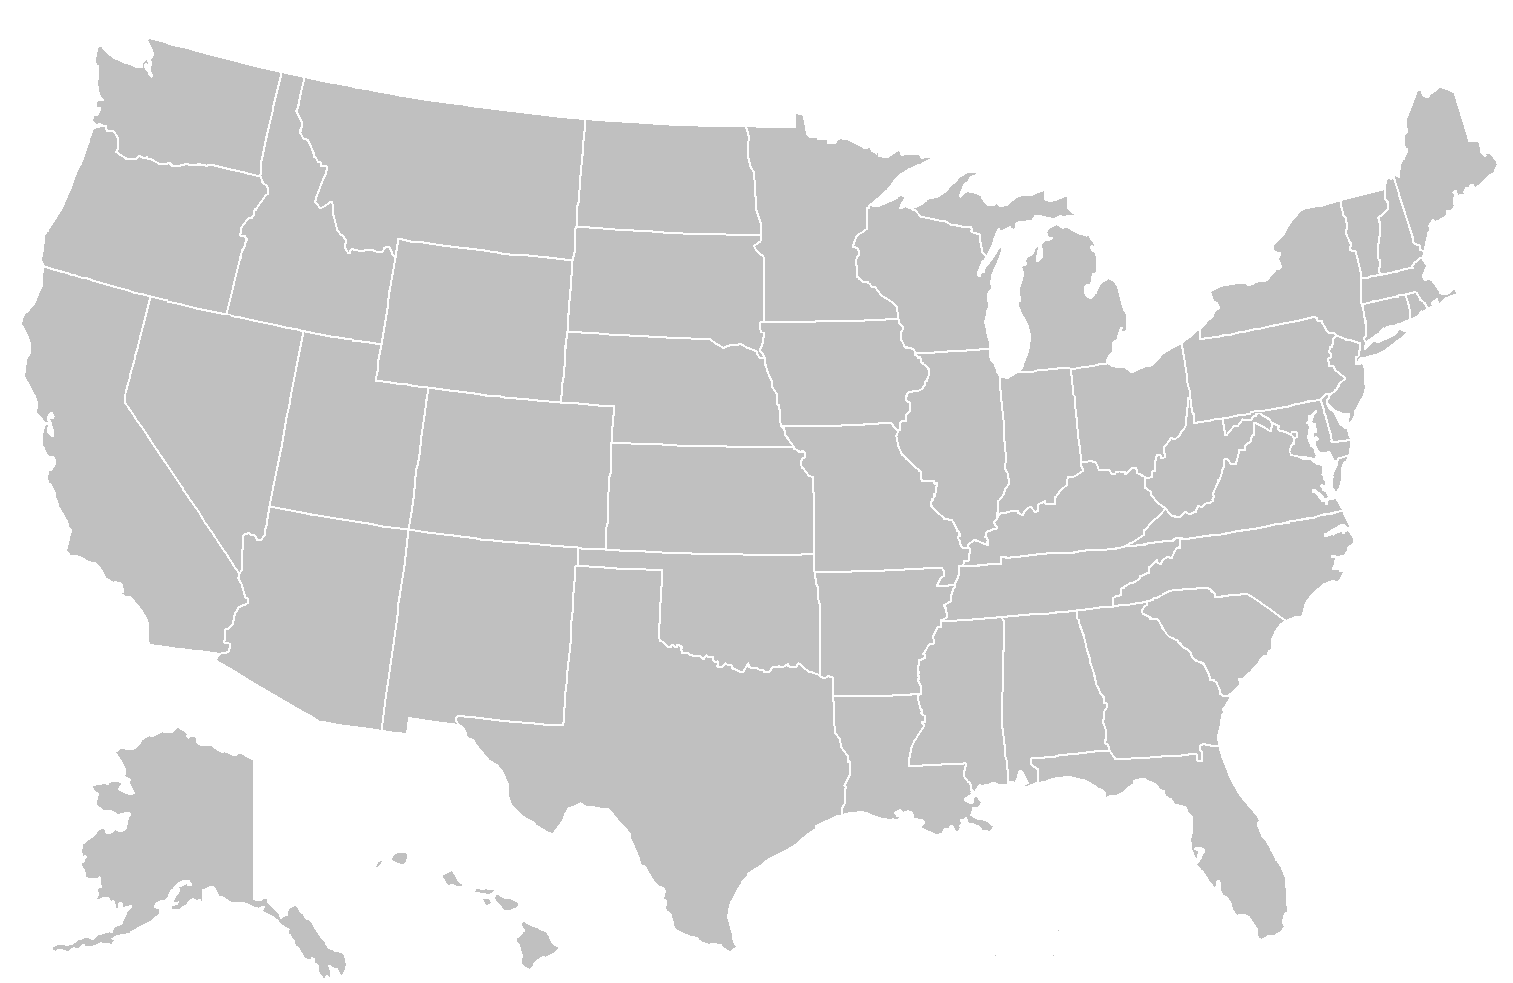
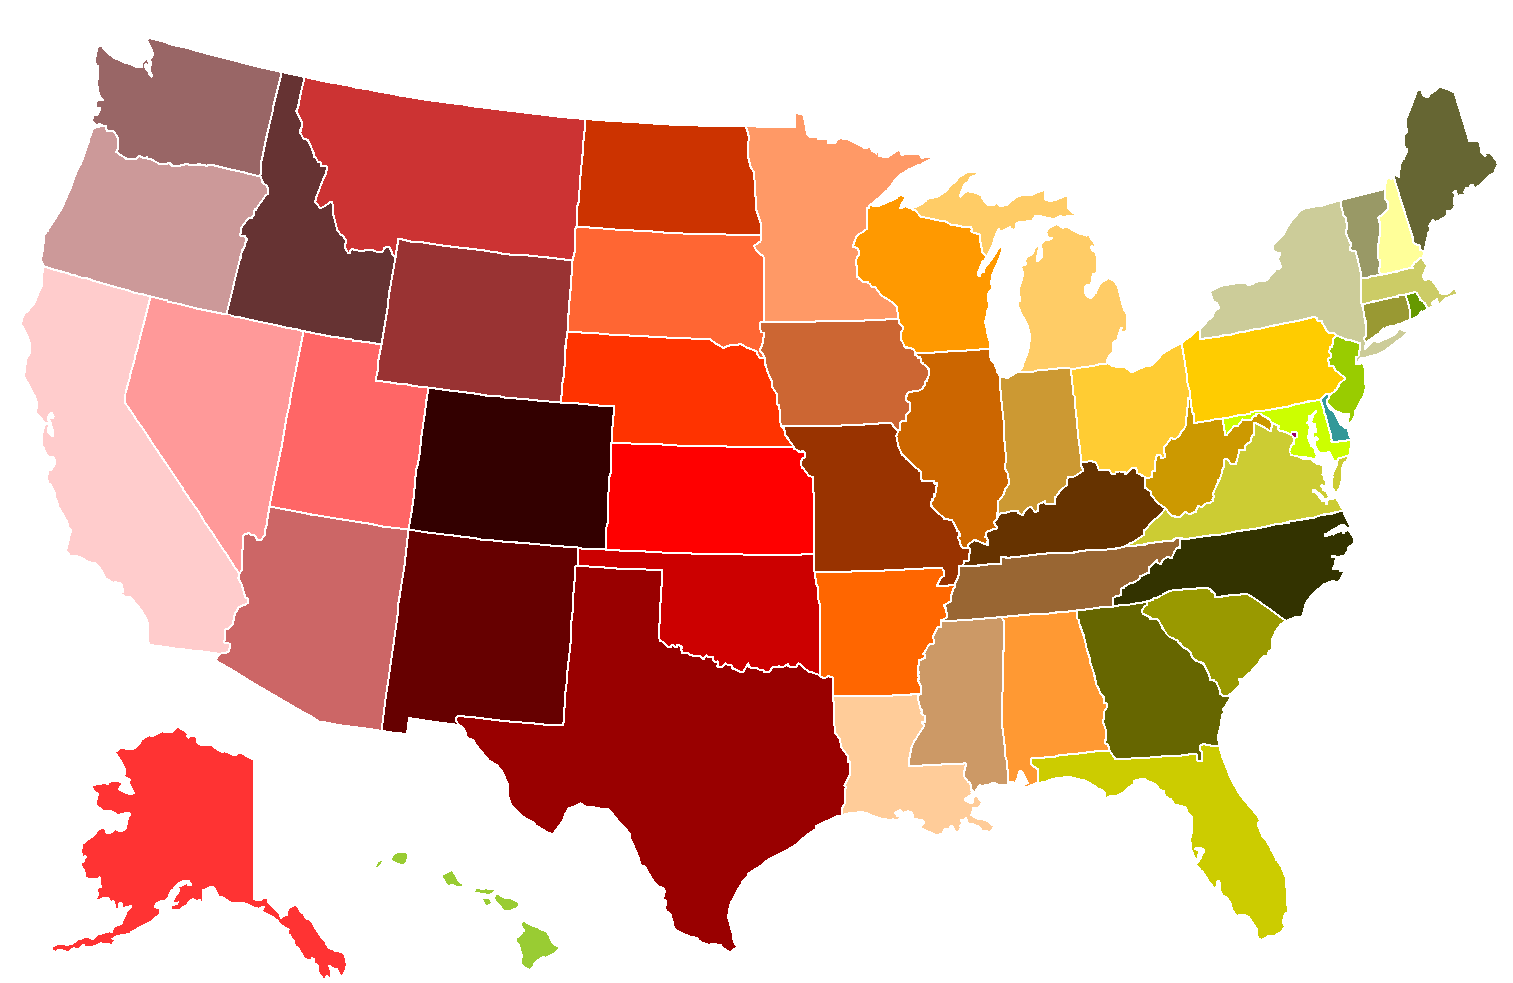
[maps] add USA state map (no label boxes yet)

diff --git a/dataviz/politics_civilwar.py b/dataviz/politics_civilwar.py
@@ -8,6 +8,9 @@ import dateparser
 
 CONFEDERATE = ["South Carolina", "Mississippi", "Florida", "Alabama", "Georgia", "Louisiana", "Texas"]
 UNION = ["California", "Connecticut", "Illinois", "Indiana", "Iowa", "Kansas", "Maine", "Massachusetts", "Michigan", "Minnesota", "Nevada", "New Hampshire", "New Jersey", "New York", "Ohio", "Oregon", "Pennsylvania", "Rhode Island", "Vermont", "Dist. of Col.", "Wisconsin"]
+CONF_BORDER = ["Arkansas", "North Carolina", "Tennessee", "Virginia"]
+UNION_BORDER = ["Delaware", "Kentucky", "Maryland", "Missouri", "West Virginia"]
+
 PALETTE = ImageColor.from_floats(sns.color_palette())
 DCOL = PALETTE[0]
 RCOL = PALETTE[2]
@@ -79,7 +82,10 @@ def clabel_fn(c, r):
             ], bg=0)
     return img.pad((0, 0, 0, 2), 0)
     
-ylabel = Image.from_text("political leaning of the South versus the North*", arial(24), padding=(5,2,5,10), bg="white").transpose(Image.ROTATE_90)
+
+ylabel = Image.from_column([
+Image.from_text("political leaning of the South versus the North", arial(24), padding=(5,2,5,5), bg="white"),
+Image.from_text("based on the ratio of Republican to Democrat votes in the South divided by the ratio in the North", arial(14), padding=(5,2,5,10), bg="white")], bg="white").transpose(Image.ROTATE_90)
 
 title = Image.from_column([
      Image.from_text("From ‘Solid South’ to Republican heartland".upper(), arial(60, bold=True), bg="white")
@@ -89,15 +95,28 @@ title = Image.from_column([
 img = bar_chart(votes[["leaning"]], 62, 1000, spacing=2, colors=color_fn, clabels=clabel_fn, clabels_pos=BarChartLabelPosition.BAR,
     ymin=-1, ymax=1, grid_interval=0.125, ylabels=arial(FONT_SIZE), yformat=ylabel_fn, ylabel=ylabel, title=title)
     
-# Time chart
+# Add time chart
 events = pd.DataFrame([{ "group": "event", "name": n, "start": dateparser.parse(s).date(), "end": dateparser.parse(e).date() } for n,s,e in EVENTS])
 groups = events.groupby("group")
 chronology = time_chart(groups, "start", "end", lambda _: EVENTBG, 2620, 50, element_images=lambda d: Image.from_text(d['name'], arial(FONT_SIZE), fg="white", bg=EVENTBG), bg="white")
 img = img.place(chronology, (0, 1), padding=(150,100))
 
-# Footer
-footer = Image.from_text("* based on the ratio of Republican to Democrat votes in the South divided by the ratio in the North; South refers to ex-Confederate non-border states [AL, FL, GA, LA, MS, SC, TX]; North refers to ex-Union non-border states [CA, CT, IA, IL, IN, KS, MA, ME, MI, MN, NH, NJ, NV, NY, OH, OR, PA, RI, VT, WI + DC post 1961]; 1860 numbers combine Northern and Southern Democrats.", arial(14), padding=(2,10), bg="white")
+# Add state map
+UNION = ["District of Columbia" if x == "Dist. of Col." else x for x in UNION]
+def state_color_fn(c):
+    if c == "Borders": return "white"
+    elif c in UNION: return DCOL
+    elif c in CONFEDERATE: return RCOL
+    elif c in CONF_BORDER + UNION_BORDER: return "grey"
+    else: return "#BBBBBB"
+map = map_chart("maps/USA.png", state_color_fn)
+map_thumb = Image.from_column([
+    Image.from_text("‘North’ here refers to ex-Union non-border states\n‘South’ refers to ex-Confederate non-border states", arial(54, bold=True), line_spacing=5),
+    map
+], bg="white").resize_fixed_aspect(width=500)
+img = img.place(map_thumb, (1, 0), padding=(100, 200))
 
-img = Image.from_column([img, footer], bg="white").pad((10,0), "white")
+# Save
+img = img.pad((10,0), "white")
 img.place(Image.from_text("/u/Udzu", font("arial", 16), fg="black", bg="white", padding=5).pad((1,1,0,0), "black"), align=1, padding=10, copy=False)
 img.save("output/politics_northsouth.png")
